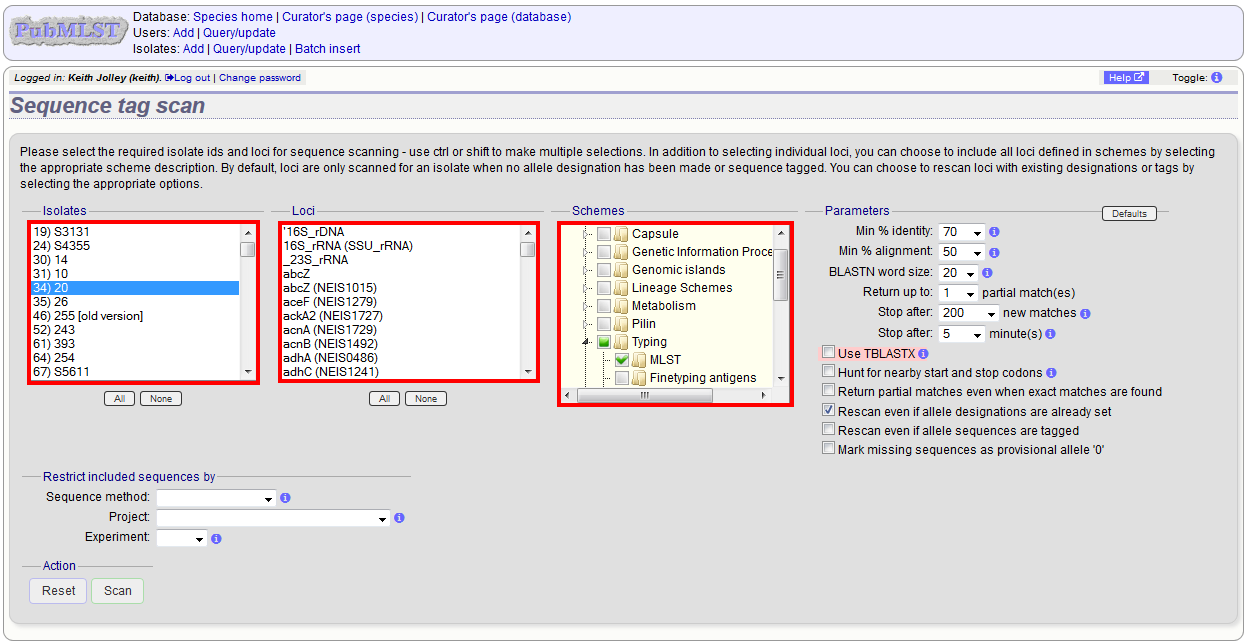
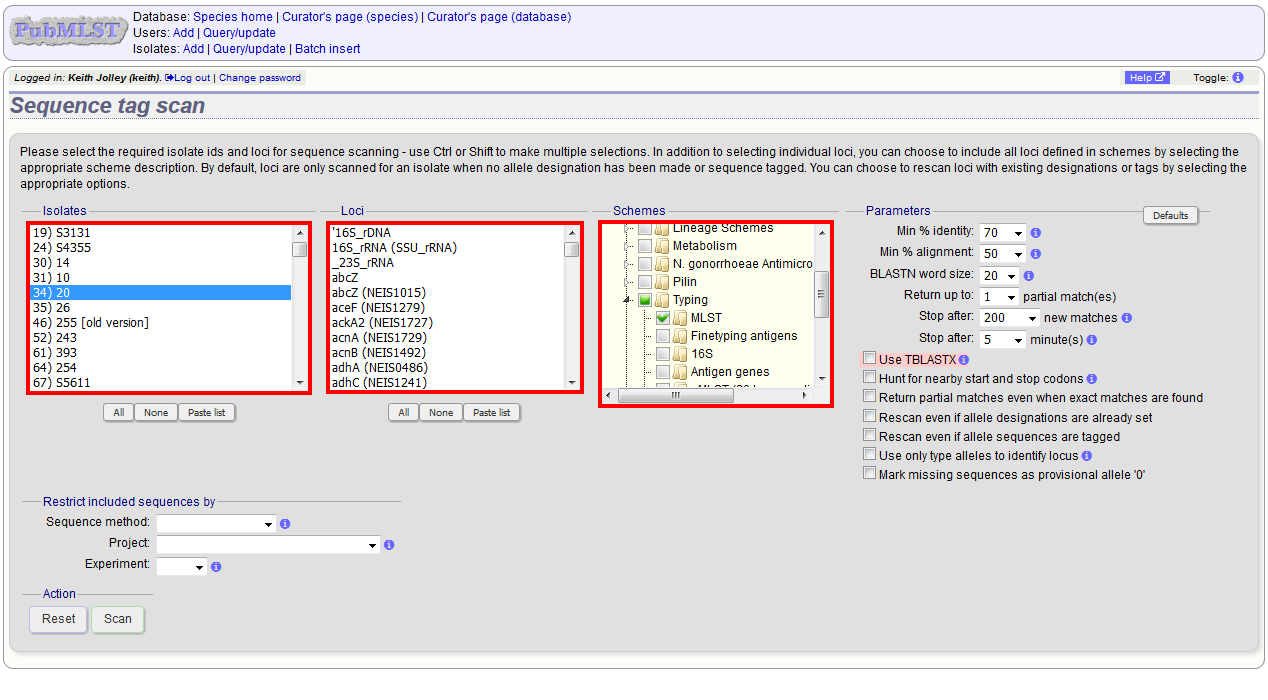
Type alleles.

Changed region(s): [[0.0, 0.0, 1.0, 0.7143], [0.0, 0.7143, 1.0, 1.0]]

diff --git a/conf.py b/conf.py
@@ -54,9 +54,9 @@ copyright = u'2014-2016, Keith Jolley'
 # built documents.
 #
 # The short X.Y version.
-version = '1.15.0'
+version = '1.14.1'
 # The full version, including alpha/beta/rc tags.
-release = '1.15.0'
+release = '1.14.1'
 
 # The language for content autogenerated by Sphinx. Refer to documentation
 # for a list of supported languages.

diff --git a/curator_guide.rst b/curator_guide.rst
@@ -88,6 +88,11 @@ The status can either be:
 
   * If none of the above match, then the sequence should be entered as 
     unchecked.
+    
+You can also choose whether to designate the sequence as a type allele or not.
+Type alleles can be used to constrain the sequence search space when defining
+new alleles using the :ref:`web-based scanner<tag_scanning>` or 
+:ref:`offline auto allele definer<autodefiner>`.
 
 .. image:: /images/curation/add_alleles2.png 
 
@@ -126,7 +131,21 @@ Download a template Excel file from the following page.
 
 Fill in the spreadsheet.  If the locus uses integer allele identifiers, the 
 allele_id can be left blank and the next available number will be used 
-automatically.   Paste the entire sheet in to the web form and select the 
+automatically.   
+
+The status can be either: 'Sanger trace checked', 
+'WGS: manual extract (BIGSdb)', 'WGS: automated extract (BIGSdb)', 
+'WGS: visually checked', 'WGS: automatically checked' or 'unchecked'. See 
+full explanations for these in the 
+:ref:`single allele upload<single_allele_upload>` section.
+
+The 'type_allele' field is boolean (true/false) and specifies if the sequence
+should be considered as a type allele. These can be used to constrain the 
+sequence search space when defining new alleles using the 
+:ref:`web-based scanner<tag_scanning>` or 
+:ref:`offline auto allele definer<autodefiner>`.
+
+Paste the entire sheet in to the web form and select the 
 sender from the dropdown box.
 
 Additionally, there are a number of options available.  Some of these will 
@@ -750,6 +769,12 @@ in these cases, select either or both the following:
 
 * Rescan even if allele designations are already set
 * Rescan even if allele sequences are tagged
+
+You can select to only use type alleles to identify the locus. This will
+constrain the search space so that allele definitions don't become more 
+variable over time. If a partial match is found to a type allele then a full 
+database lookup will be performed to identify any known alleles. An allele can
+be given a status of type allele when :ref:`defining<single_allele_upload>`.
 
 Options can be returned to their default setting by clicking the 'Defaults' 
 button.

diff --git a/offline_tools.rst b/offline_tools.rst
@@ -333,6 +333,14 @@ A full list of options can be found by typing: ::
 
  --threads THREADS
      Maximum number of threads to use.
+     
+ --type_alleles
+     Only use alleles with the 'type_allele' flag set to identify locus.
+     If a partial match is found then a full database lookup will be performed
+     to identify any known alleles. Using this option will constrain the search
+     space so that allele definitions don't become more variable over time. Note
+     that you must have at least one allele defined as a type allele for a locus
+     if you use this option otherwise you will not find any matches!
 
  -T, --already_tagged
      Scan even when sequence tagged (no designation).
@@ -369,7 +377,7 @@ not use 'kill -9' as this will terminate the processes immediately and not
 allow them to clean up.
 
 If these scripts are running using multiple threads, then you need to cleanly 
-kill each of these.  The simplest way to terminate all autotagger jobs is to, 
+kill each of these.  The simplest way to terminate all autotagger jobs is to 
 type ::
 
  pkill autotag
